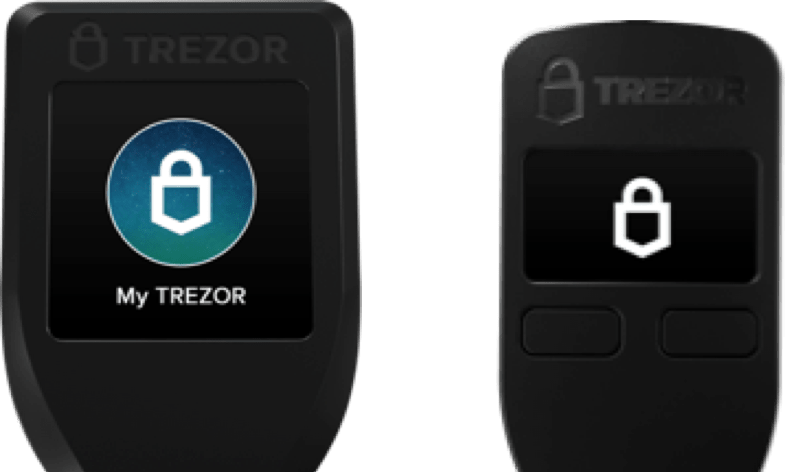
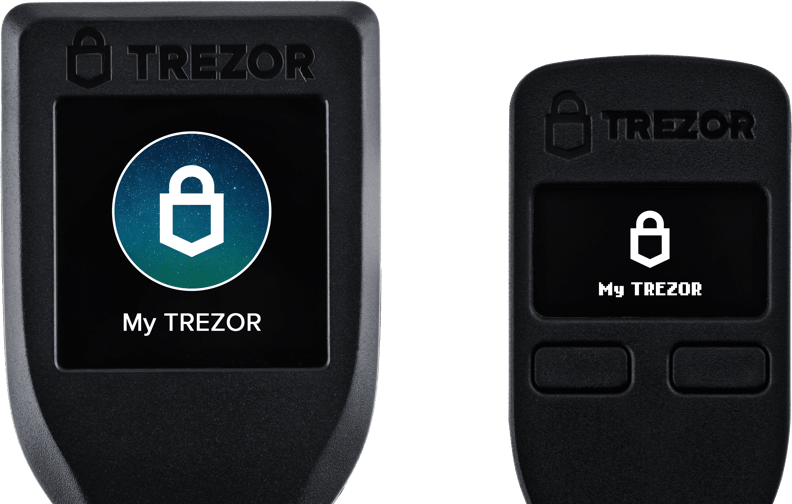
footer fixing dividers, rasterized devices fixed

diff --git a/static/css/custom/colors.sass b/static/css/custom/colors.sass
@@ -38,7 +38,7 @@ $c_tpm_blue: #2777CD
 $c_tpm_blue_dark_very_much: #162338
 
 
-$c_border_gray: #E8E8E8
+$c_border_gray: rgb(234, 234, 234)
 $c_subtle_gray: #FAFAFA
 $c_yellow: #F8E71C
 

diff --git a/static/css/custom/footer.sass b/static/css/custom/footer.sass
@@ -1,6 +1,7 @@
 footer
   width: 100%
   color: $c_white
+  border-top: 0.5px solid $c_border_gray
 
   ul
     @media only screen and (max-width: $sm)
